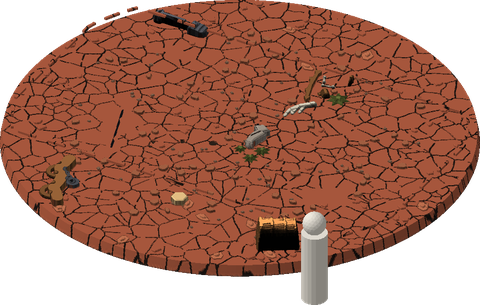
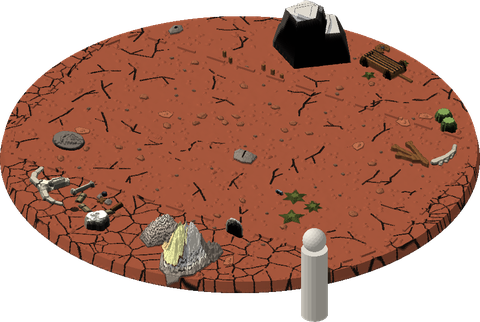
2.3.0: square and rectangle bases, the window fits the screen, textured ground, fresh example pictures
- README: What is new in 2.3, a new gallery of 16 bases built by this version (tools/make_gallery.py),
  a 100x50 rectangle and a 25 mm square example.
- VERSION 2.3.0.

diff --git a/README.md b/README.md
@@ -44,6 +44,49 @@ version is always the one marked **Latest** on the [Releases page](https://githu
 download `bbb_kit_<version>.zip` there and unzip it anywhere. If the number in your `VERSION` file is lower than
 the one on that page, yours is an older one. (`python tools\make_release.py` makes the zip.)
 
+## What is new in 2.3: square bases, a window that fits your screen, textured ground
+
+![Sixteen bases built by 2.3, two of every size from 30 to 160 mm](examples/sheet_2.3.0.png)
+
+*Sixteen bases freshly built by this version: two of every size from 30 to 160 mm, each in a different style.*
+
+![A 100x50 mm rectangle and a 25 mm square base, built by 2.3](examples/rect_100x50_graveyard.png)
+![A 25 mm square base](examples/square_25_highland.png)
+
+*New: square and rectangle bases (a 100x50 mm graveyard and a 25 mm highland square).*
+
+**Square and rectangle bases.** A new row of sizes in the window: 20, 25, 40 and 50 mm squares and 25x50 and 50x100 mm rectangles, with 1.5 mm rounded corners. The edge, the height and the magnet pockets are the same as on round bases. Details reach right into the corners. On the command line: `--size 25sq` or `--size 25x50r`.
+
+**The window fits your screen.** Everything scales with the window, from small laptop screens up to 4K (1080p is the normal size, 1440p 1.35x, 4K about 2x). The side panel scrolls for what does not fit.
+
+**Textured ground everywhere.** Every flat top gets a fine grain that suits its ground: soil, mud, sand, gravel, ash, planks and stone each have their own texture.
+
+**A Printer setting: FDM or Resin.** FDM gets a coarser grain that a nozzle can print and drops details too small for it. Resin keeps the finer grain and smaller details.
+
+**More natural scenes.**
+- Organic rocks, on by default, come in four shapes: rounded, chipped, layered and split. About half of them lean.
+- Models settle on their steadiest face, with a little soil banked around them.
+- Things on the ground sit slightly into it instead of standing on top.
+- Stone slabs, headstones, tombs and steps get angular chips out of their edges.
+- Debris lies along lines out from the base's subject, so each base tells one story.
+
+**New in the window.**
+- A theme picker: any of the style's themes, or one you choose.
+- **Style strength**, from 0.5 to 2. 2 makes bolder details that are easier to paint.
+- A design seed box, to build the same design again.
+- Three saved sets of settings.
+- **Several sizes**: build a batch in several sizes at once. Each size keeps its own cards and labels, and the whole batch goes into one folder.
+
+**Other changes.**
+- A side picture of every picked base (`_side.png`) shows the real edge and how tall things stand.
+- A file-name template (`file_name` in settings.json, or `--name`).
+- Your own themes in `themes.json` beside the exe are checked theme by theme, and the note says what was wrong and where.
+- Typing a design seed no longer triggers the window's shortcuts.
+
+**Known issue.** The urban style at 25 mm square can stop while drawing its choices (one card never arrives). Other urban sizes, and every other style at 25 mm square, are fine. The fix comes in the next update.
+
+Download `bbb_kit.exe`, or the zip with everything, and run it from any folder. Nothing needs installing.
+
 ## What is new in 2.2: true-size bases, room for the model, outcrops, an icon
 
 ![Sixteen bases built by 2.2](examples/sheet_2.2.0.png)
@@ -354,14 +397,14 @@ STL files; `python tools\make_examples.py` makes a fresh set).
 <!-- EXAMPLES -->
 | Size | | |
 |---|---|---|
-| **30 mm** | ![highland 30 mm](examples/030mm_1_highland.png)<br>highland: "ruined tower" | ![maahl 30 mm](examples/030mm_2_maahl.png)<br>maahl: "altar of sand" |
-| **40 mm** | ![frontier 40 mm](examples/040mm_1_frontier.png)<br>frontier: "water stop" | ![coast 40 mm](examples/040mm_2_coast.png)<br>coast: "jetty" |
-| **50 mm** | ![graveyard 50 mm](examples/050mm_1_graveyard.png)<br>graveyard: "fresh grave" | ![sundered 50 mm](examples/050mm_2_sundered.png)<br>sundered: "statue toppled in the square" |
-| **60 mm** | ![trederra 60 mm](examples/060mm_1_trederra.png)<br>trederra: "gun pit" | ![ferrum 60 mm](examples/060mm_2_ferrum.png)<br>ferrum: "slag heap" |
-| **80 mm** | ![cynder 80 mm](examples/080mm_1_cynder.png)<br>cynder: "obsidian field" | ![swamp 80 mm](examples/080mm_2_swamp.png)<br>swamp: "hanging tree" |
-| **100 mm** | ![ashveil 100 mm](examples/100mm_1_ashveil.png)<br>ashveil: "marker pylon" | ![thornwild 100 mm](examples/100mm_2_thornwild.png)<br>thornwild: "root tangle" |
-| **130 mm** | ![infestation 130 mm](examples/130mm_1_infestation.png)<br>infestation: "acid pool" | ![fortress 130 mm](examples/130mm_2_fortress.png)<br>fortress: "koi pond" |
-| **160 mm** | ![temple 160 mm](examples/160mm_1_temple.png)<br>temple: "sealed vault" | ![badlands 160 mm](examples/160mm_2_badlands.png)<br>badlands: "broken wagon" |
+| **30 mm** | ![swamp 30 mm](examples/030mm_1_swamp.png)<br>swamp: "boat landing" | ![ashveil 30 mm](examples/030mm_2_ashveil.png)<br>ashveil: "buried transport" |
+| **40 mm** | ![graveyard 40 mm](examples/040mm_1_graveyard.png)<br>graveyard: "hanging tree" | ![beast 40 mm](examples/040mm_2_beast.png)<br>beast: "jaw line" |
+| **50 mm** | ![highland 50 mm](examples/050mm_1_highland.png)<br>highland: "ruined tower" | ![urban 50 mm](examples/050mm_2_urban.png)<br>urban: "bomb site" |
+| **60 mm** | ![cynder 60 mm](examples/060mm_1_cynder.png)<br>cynder: "ash burial" | ![sundered 60 mm](examples/060mm_2_sundered.png)<br>sundered: "fallen cathedral wall" |
+| **80 mm** | ![infestation 80 mm](examples/080mm_1_infestation.png)<br>infestation: "egg chamber" | ![corridor 80 mm](examples/080mm_2_corridor.png)<br>corridor: "airlock" |
+| **100 mm** | ![maahl 100 mm](examples/100mm_1_maahl.png)<br>maahl: "buried temple" | ![frontier 100 mm](examples/100mm_2_frontier.png)<br>frontier: "prospector s camp" |
+| **130 mm** | ![blight 130 mm](examples/130mm_1_blight.png)<br>blight: "spike garden" | ![obelis 130 mm](examples/130mm_2_obelis.png)<br>obelis: "glyph plaza" |
+| **160 mm** | ![mine 160 mm](examples/160mm_1_mine.png)<br>mine: "shaft head" | ![badlands 160 mm](examples/160mm_2_badlands.png)<br>badlands: "boot hill" |
 <!-- /EXAMPLES -->
 
 **Every base is one place.** A base is not a pile of objects: it has a subject (a mine shaft, a wreck, a shrine), a
